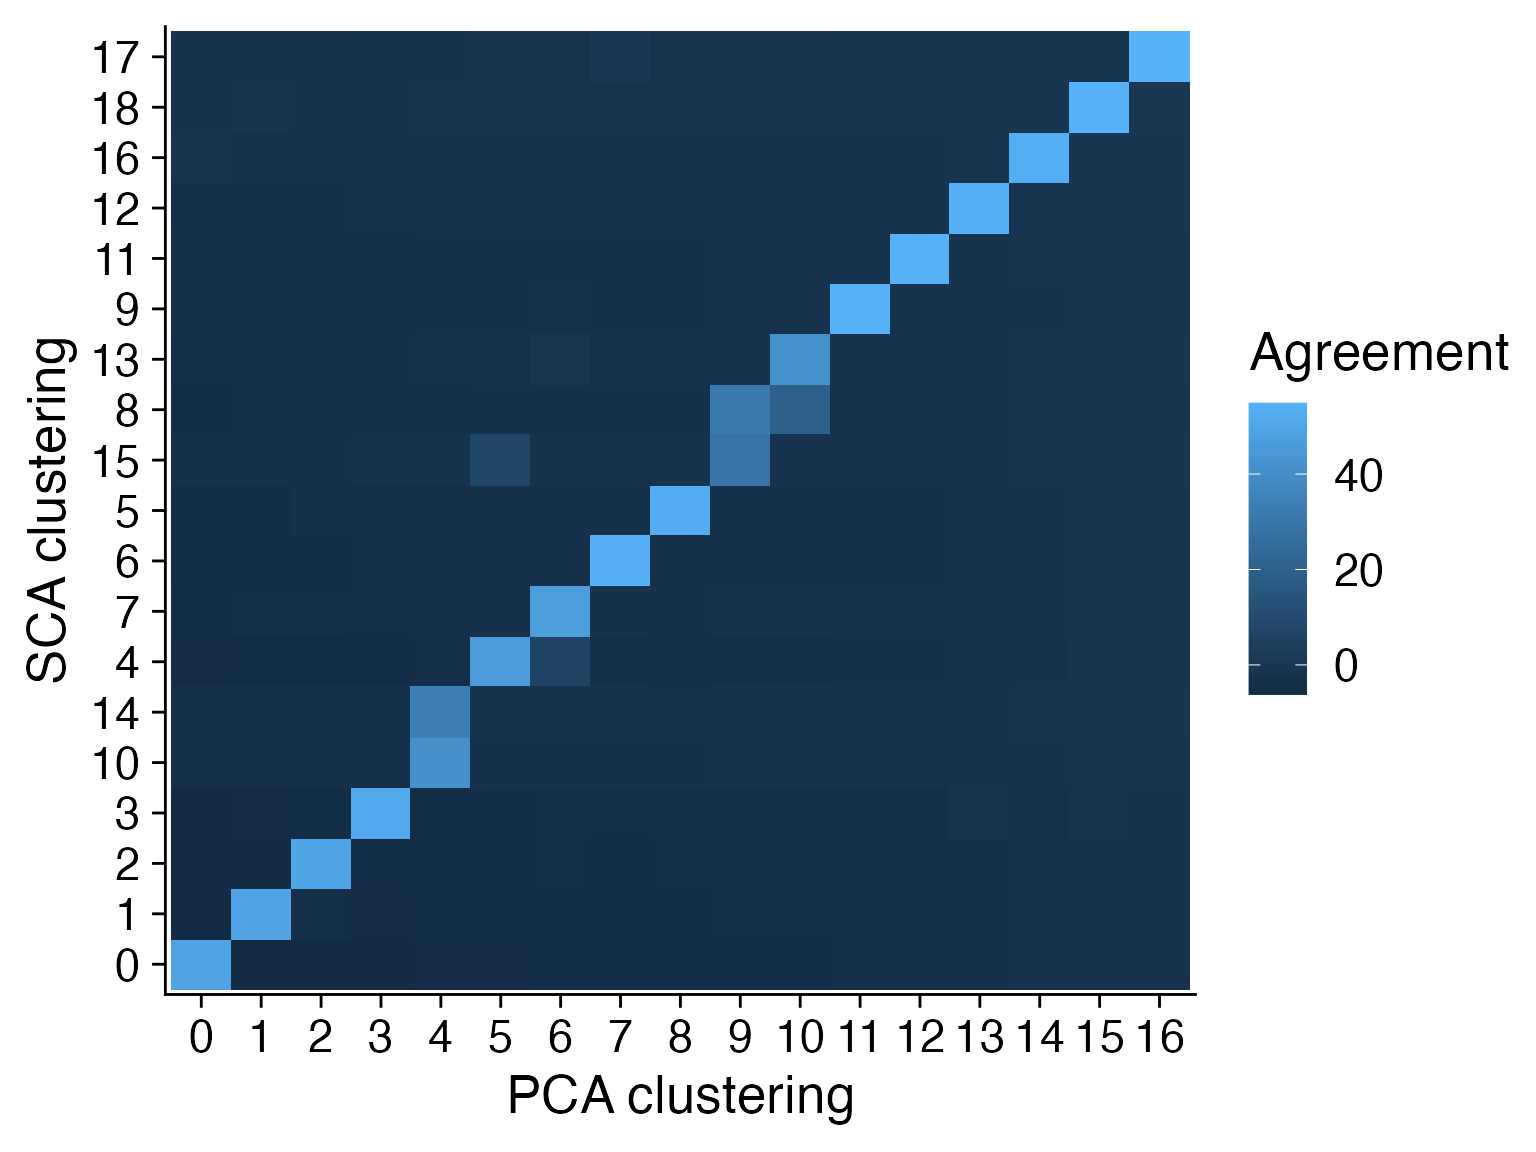
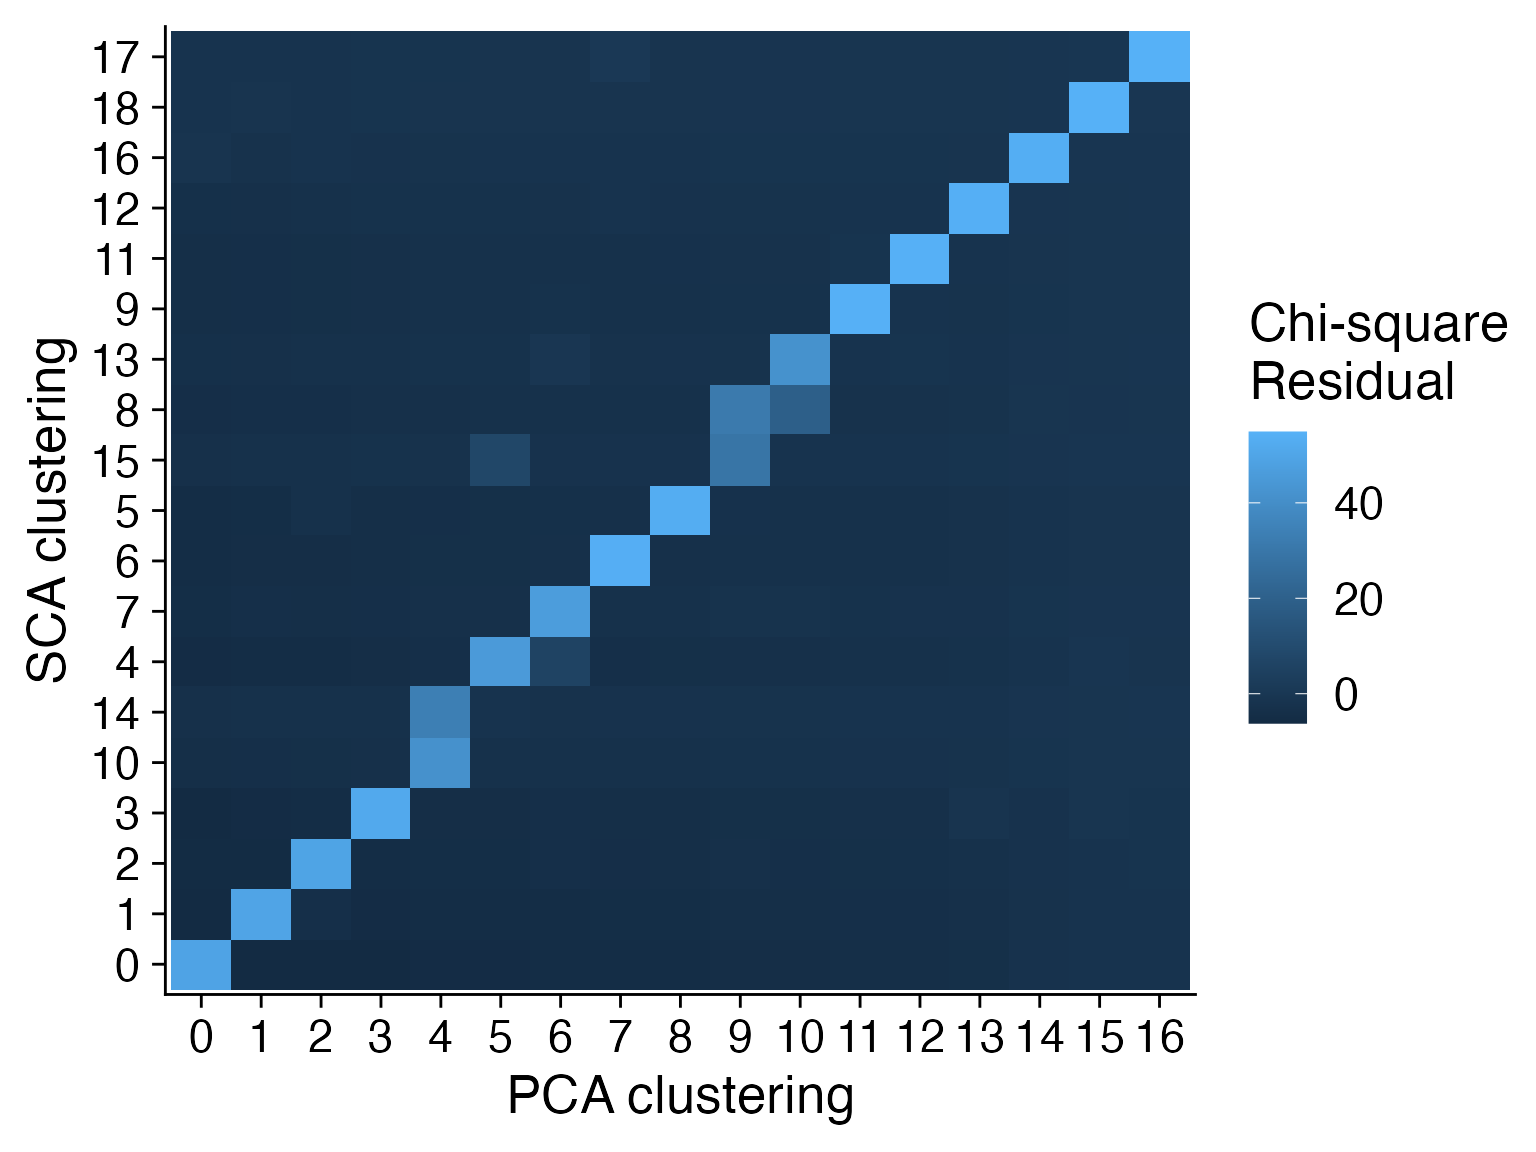
update vignettes

Changed region(s): [[0.8125, 0.25, 1.0, 0.375], [0.8125, 0.5625, 0.9062, 0.6562], [0.875, 0.4062, 0.9062, 0.5312]]

diff --git a/docs/articles/get_started.html b/docs/articles/get_started.html
@@ -107,6 +107,7 @@
     <div class="page-header toc-ignore">
       <h1 data-toc-skip>Get started with Visium Brain data</h1>
             
+            <h4 data-toc-skip class="date">Last Run: April 28, 2022</h4>
       
       <small class="dont-index">Source: <a href="https://github.com/stevexniu/rspca/blob/HEAD/vignettes/get_started.Rmd" class="external-link"><code>vignettes/get_started.Rmd</code></a></small>
       <div class="hidden name"><code>get_started.Rmd</code></div>
@@ -211,7 +212,7 @@ Typically, datapoints not located on the edges should have 6 1st-degree, 12 2nd-
 
 <span class="co"># Data for visualization</span>
 <span class="va">data.plot</span> <span class="op">&lt;-</span> <span class="fu">Seurat</span><span class="fu">:::</span><span class="fu">Melt</span><span class="op">(</span><span class="va">chi.resid</span><span class="op">)</span>
-<span class="fu"><a href="https://rdrr.io/r/base/colnames.html" class="external-link">colnames</a></span><span class="op">(</span><span class="va">data.plot</span><span class="op">)</span><span class="op">[</span><span class="fl">1</span><span class="op">:</span><span class="fl">3</span><span class="op">]</span> <span class="op">&lt;-</span> <span class="fu"><a href="https://rdrr.io/r/base/c.html" class="external-link">c</a></span><span class="op">(</span><span class="st">"SCA clustering"</span>, <span class="st">"PCA clustering"</span>, <span class="st">"Agreement"</span><span class="op">)</span>
+<span class="fu"><a href="https://rdrr.io/r/base/colnames.html" class="external-link">colnames</a></span><span class="op">(</span><span class="va">data.plot</span><span class="op">)</span><span class="op">[</span><span class="fl">1</span><span class="op">:</span><span class="fl">3</span><span class="op">]</span> <span class="op">&lt;-</span> <span class="fu"><a href="https://rdrr.io/r/base/c.html" class="external-link">c</a></span><span class="op">(</span><span class="st">"SCA clustering"</span>, <span class="st">"PCA clustering"</span>, <span class="st">"Chi-square Residual"</span><span class="op">)</span>
 
 <span class="co"># Reorder the columns</span>
 <span class="va">data.plot</span><span class="op">[</span>,<span class="fl">1</span><span class="op">]</span> <span class="op">&lt;-</span> <span class="fu"><a href="https://rdrr.io/r/base/factor.html" class="external-link">factor</a></span><span class="op">(</span><span class="va">data.plot</span><span class="op">[</span>,<span class="fl">1</span><span class="op">]</span>, 
@@ -220,15 +221,42 @@ Typically, datapoints not located on the edges should have 6 1st-degree, 12 2nd-
 <span class="va">data.plot</span><span class="op">[</span>,<span class="fl">2</span><span class="op">]</span> <span class="op">&lt;-</span> <span class="fu"><a href="https://rdrr.io/r/base/factor.html" class="external-link">factor</a></span><span class="op">(</span><span class="va">data.plot</span><span class="op">[</span>,<span class="fl">2</span><span class="op">]</span>, levels <span class="op">=</span> <span class="fu"><a href="https://rdrr.io/r/base/unique.html" class="external-link">unique</a></span><span class="op">(</span><span class="fu"><a href="https://rdrr.io/r/base/numeric.html" class="external-link">as.numeric</a></span><span class="op">(</span><span class="va">data.plot</span><span class="op">[</span>,<span class="fl">2</span><span class="op">]</span><span class="op">)</span><span class="op">)</span>, ordered <span class="op">=</span> <span class="cn">TRUE</span><span class="op">)</span>
 
 <span class="co"># Heatmap</span>
-<span class="fu"><a href="https://ggplot2.tidyverse.org/reference/ggplot.html" class="external-link">ggplot</a></span><span class="op">(</span>data <span class="op">=</span> <span class="va">data.plot</span>, <span class="fu"><a href="https://ggplot2.tidyverse.org/reference/aes.html" class="external-link">aes</a></span><span class="op">(</span>x<span class="op">=</span><span class="va">`PCA clustering`</span>, y<span class="op">=</span><span class="va">`SCA clustering`</span>, fill<span class="op">=</span><span class="va">Agreement</span><span class="op">)</span><span class="op">)</span> <span class="op">+</span> 
-  <span class="fu"><a href="https://ggplot2.tidyverse.org/reference/geom_tile.html" class="external-link">geom_tile</a></span><span class="op">(</span><span class="op">)</span> <span class="op">+</span> <span class="fu">cowplot</span><span class="fu">::</span><span class="fu"><a href="https://wilkelab.org/cowplot/reference/theme_cowplot.html" class="external-link">theme_cowplot</a></span><span class="op">(</span>font_size <span class="op">=</span> <span class="fl">20</span><span class="op">)</span> </code></pre></div>
+<span class="fu"><a href="https://ggplot2.tidyverse.org/reference/ggplot.html" class="external-link">ggplot</a></span><span class="op">(</span>data <span class="op">=</span> <span class="va">data.plot</span>, <span class="fu"><a href="https://ggplot2.tidyverse.org/reference/aes.html" class="external-link">aes</a></span><span class="op">(</span>x<span class="op">=</span><span class="va">`PCA clustering`</span>, y<span class="op">=</span><span class="va">`SCA clustering`</span>, fill<span class="op">=</span><span class="va">`Chi-square Residual`</span><span class="op">)</span><span class="op">)</span> <span class="op">+</span> 
+  <span class="fu"><a href="https://ggplot2.tidyverse.org/reference/geom_tile.html" class="external-link">geom_tile</a></span><span class="op">(</span><span class="op">)</span> <span class="op">+</span> <span class="fu">cowplot</span><span class="fu">::</span><span class="fu"><a href="https://wilkelab.org/cowplot/reference/theme_cowplot.html" class="external-link">theme_cowplot</a></span><span class="op">(</span>font_size <span class="op">=</span> <span class="fl">20</span><span class="op">)</span> <span class="op">+</span> <span class="fu"><a href="https://ggplot2.tidyverse.org/reference/labs.html" class="external-link">labs</a></span><span class="op">(</span>fill<span class="op">=</span><span class="st">"Chi-square\nResidual"</span><span class="op">)</span></code></pre></div>
 <p><img src="get_started_files/figure-html/compare-1.png" width="768"></p>
 </div>
 <div class="section level3">
 <h3 id="conclusion">Conclusion<a class="anchor" aria-label="anchor" href="#conclusion"></a>
 </h3>
 <p>For this data, the clustering results based on SCA and PCA in general agree with each other. However, as we noted PCA cluster 4, 9 and 10 were split by the SCA each into two distinct groups.</p>
-<p>Here, we will go through them in detail at whether SCA made a false discovery.</p>
+<p>Here, we will go through one of them in detail to check whether SCA made a false discovery or PCA underestimated certain distinct clusters.</p>
+<p><details><summary><strong>PCA Cluster 4 vs SCA Cluster 10 and 14</strong></summary></details></p>
+<div class="sourceCode"><pre class="downlit sourceCode r">
+<code class="sourceCode R"><span class="va">cluster4</span> <span class="op">&lt;-</span> <span class="fu"><a href="https://rdrr.io/r/base/subset.html" class="external-link">subset</a></span><span class="op">(</span><span class="va">posterior1</span>, <span class="va">pca.snn_res.1</span> <span class="op">==</span> <span class="fl">4</span> <span class="op">&amp;</span> <span class="va">sca.snn_res.1</span> <span class="op"><a href="https://rdrr.io/r/base/match.html" class="external-link">%in%</a></span> <span class="fu"><a href="https://rdrr.io/r/base/c.html" class="external-link">c</a></span><span class="op">(</span><span class="fl">10</span>, <span class="fl">14</span><span class="op">)</span><span class="op">)</span>
+<span class="va">cluster4</span><span class="op">$</span><span class="va">sca.snn_res.1</span> <span class="op">&lt;-</span> <span class="fu"><a href="https://rdrr.io/r/base/factor.html" class="external-link">factor</a></span><span class="op">(</span><span class="va">cluster4</span><span class="op">$</span><span class="va">sca.snn_res.1</span><span class="op">)</span>
+<span class="va">cluster4</span><span class="op">$</span><span class="va">pca.snn_res.1</span> <span class="op">&lt;-</span> <span class="fu"><a href="https://rdrr.io/r/base/factor.html" class="external-link">factor</a></span><span class="op">(</span><span class="va">cluster4</span><span class="op">$</span><span class="va">pca.snn_res.1</span><span class="op">)</span>
+<span class="va">p1</span> <span class="op">&lt;-</span> <span class="fu"><a href="https://satijalab.org/seurat/reference/SpatialPlot.html" class="external-link">SpatialDimPlot</a></span><span class="op">(</span><span class="va">cluster4</span>, group.by <span class="op">=</span> <span class="st">"pca.snn_res.1"</span>, pt.size.factor <span class="op">=</span> <span class="fl">3</span>, 
+                     label <span class="op">=</span> <span class="cn">TRUE</span>, label.size <span class="op">=</span> <span class="fl">5</span><span class="op">)</span> <span class="op">+</span> 
+  <span class="fu"><a href="https://ggplot2.tidyverse.org/reference/labs.html" class="external-link">ggtitle</a></span><span class="op">(</span><span class="st">"PCA Clustering"</span><span class="op">)</span> <span class="op">+</span> <span class="fu"><a href="https://satijalab.org/seurat/reference/SeuratTheme.html" class="external-link">NoLegend</a></span><span class="op">(</span><span class="op">)</span> <span class="op">+</span> 
+  <span class="fu"><a href="https://ggplot2.tidyverse.org/reference/theme.html" class="external-link">theme</a></span><span class="op">(</span>plot.title <span class="op">=</span> <span class="fu"><a href="https://ggplot2.tidyverse.org/reference/element.html" class="external-link">element_text</a></span><span class="op">(</span>size <span class="op">=</span> <span class="fl">15</span>, face <span class="op">=</span> <span class="fl">2</span>, hjust <span class="op">=</span> <span class="fl">0.5</span><span class="op">)</span><span class="op">)</span>
+<span class="va">p2</span> <span class="op">&lt;-</span> <span class="fu"><a href="https://satijalab.org/seurat/reference/SpatialPlot.html" class="external-link">SpatialDimPlot</a></span><span class="op">(</span><span class="va">cluster4</span>, group.by <span class="op">=</span> <span class="st">"sca.snn_res.1"</span>, pt.size.factor <span class="op">=</span> <span class="fl">3</span>, 
+                     label <span class="op">=</span> <span class="cn">TRUE</span>, label.size <span class="op">=</span> <span class="fl">5</span><span class="op">)</span> <span class="op">+</span> 
+  <span class="fu"><a href="https://ggplot2.tidyverse.org/reference/labs.html" class="external-link">ggtitle</a></span><span class="op">(</span><span class="st">"SCA Clustering"</span><span class="op">)</span> <span class="op">+</span> <span class="fu"><a href="https://satijalab.org/seurat/reference/SeuratTheme.html" class="external-link">NoLegend</a></span><span class="op">(</span><span class="op">)</span> <span class="op">+</span> 
+  <span class="fu"><a href="https://ggplot2.tidyverse.org/reference/theme.html" class="external-link">theme</a></span><span class="op">(</span>plot.title <span class="op">=</span> <span class="fu"><a href="https://ggplot2.tidyverse.org/reference/element.html" class="external-link">element_text</a></span><span class="op">(</span>size <span class="op">=</span> <span class="fl">15</span>, face <span class="op">=</span> <span class="fl">2</span>, hjust <span class="op">=</span> <span class="fl">0.5</span><span class="op">)</span><span class="op">)</span>
+<span class="va">p1</span> <span class="op">+</span> <span class="va">p2</span></code></pre></div>
+<p><img src="get_started_files/figure-html/unnamed-chunk-2-1.png" width="768"></p>
+<p>We can examine the differentially expressed genes between cluster 10 and 14 from SCA clustering. We see that these are heterogeneous populations marked by different gene expressions.</p>
+<div class="sourceCode"><pre class="downlit sourceCode r">
+<code class="sourceCode R"><span class="va">de.genes</span> <span class="op">&lt;-</span> <span class="fu"><a href="https://satijalab.org/seurat/reference/FindMarkers.html" class="external-link">FindMarkers</a></span><span class="op">(</span><span class="va">cluster4</span>, <span class="fl">14</span>, <span class="fl">10</span>, group.by <span class="op">=</span> <span class="st">"sca.snn_res.1"</span>, verbose <span class="op">=</span> <span class="cn">FALSE</span><span class="op">)</span>
+<span class="va">de.genes</span> <span class="op">&lt;-</span> <span class="va">de.genes</span><span class="op">[</span><span class="va">de.genes</span><span class="op">$</span><span class="va">p_val_adj</span> <span class="op">&lt;</span> <span class="fl">0.05</span>, <span class="op">]</span>
+<span class="va">de.genes</span> <span class="op">&lt;-</span> <span class="va">de.genes</span><span class="op">[</span><span class="fu"><a href="https://rdrr.io/r/base/order.html" class="external-link">order</a></span><span class="op">(</span><span class="va">de.genes</span><span class="op">$</span><span class="va">avg_log2FC</span><span class="op">)</span>,<span class="op">]</span>
+<span class="va">cluster4</span> <span class="op">&lt;-</span> <span class="fu"><a href="https://satijalab.org/seurat/reference/ScaleData.html" class="external-link">ScaleData</a></span><span class="op">(</span><span class="va">cluster4</span>, features <span class="op">=</span> <span class="fu"><a href="https://rdrr.io/r/base/colnames.html" class="external-link">rownames</a></span><span class="op">(</span><span class="va">de.genes</span><span class="op">)</span><span class="op">)</span>
+<span class="va">p1</span> <span class="op">&lt;-</span> <span class="fu"><a href="https://satijalab.org/seurat/reference/DoHeatmap.html" class="external-link">DoHeatmap</a></span><span class="op">(</span><span class="va">cluster4</span>, <span class="fu"><a href="https://rdrr.io/r/base/colnames.html" class="external-link">rownames</a></span><span class="op">(</span><span class="va">de.genes</span><span class="op">)</span>, group.by <span class="op">=</span> <span class="st">"sca.snn_res.1"</span><span class="op">)</span>
+<span class="va">p2</span> <span class="op">&lt;-</span> <span class="fu"><a href="https://satijalab.org/seurat/reference/SpatialPlot.html" class="external-link">SpatialFeaturePlot</a></span><span class="op">(</span><span class="va">cluster4</span>, <span class="fu"><a href="https://rdrr.io/r/base/c.html" class="external-link">c</a></span><span class="op">(</span><span class="fu"><a href="https://rdrr.io/r/utils/head.html" class="external-link">head</a></span><span class="op">(</span><span class="fu"><a href="https://rdrr.io/r/base/colnames.html" class="external-link">rownames</a></span><span class="op">(</span><span class="va">de.genes</span><span class="op">)</span>,<span class="fl">2</span><span class="op">)</span>, <span class="fu"><a href="https://rdrr.io/r/utils/head.html" class="external-link">tail</a></span><span class="op">(</span><span class="fu"><a href="https://rdrr.io/r/base/colnames.html" class="external-link">rownames</a></span><span class="op">(</span><span class="va">de.genes</span><span class="op">)</span>,<span class="fl">2</span><span class="op">)</span><span class="op">)</span>,
+                         pt.size.factor <span class="op">=</span> <span class="fl">3</span><span class="op">)</span>
+<span class="va">p1</span> <span class="op">+</span> <span class="va">p2</span></code></pre></div>
+<p><img src="get_started_files/figure-html/unnamed-chunk-3-1.png" width="1152"><br>
+### Session Information</p>
 <div class="sourceCode"><pre class="downlit sourceCode r">
 <code class="sourceCode R"><span class="fu"><a href="https://rdrr.io/r/base/print.html" class="external-link">print</a></span><span class="op">(</span><span class="fu"><a href="https://rdrr.io/r/utils/sessionInfo.html" class="external-link">sessionInfo</a></span><span class="op">(</span><span class="op">)</span><span class="op">)</span>
 <span class="co">## R version 4.0.3 (2020-10-10)</span>
@@ -254,22 +282,22 @@ Typically, datapoints not located on the edges should have 6 1st-degree, 12 2nd-
 <span class="co">##  [13] ggrepel_0.9.0         RSpectra_0.16-0       codetools_0.2-18      splines_4.0.3         cachem_1.0.1          knitr_1.38           </span>
 <span class="co">##  [19] polyclip_1.10-0       jsonlite_1.7.2        ica_1.0-2             cluster_2.1.0         png_0.1-7             uwot_0.1.10          </span>
 <span class="co">##  [25] shiny_1.5.0           sctransform_0.3.2     spatstat.sparse_2.0-0 compiler_4.0.3        httr_1.4.2            Matrix_1.3-2         </span>
-<span class="co">##  [31] fastmap_1.1.0         lazyeval_0.2.2        cli_3.2.0             later_1.1.0.1         htmltools_0.5.2       tools_4.0.3          </span>
-<span class="co">##  [37] igraph_1.2.6          gtable_0.3.0          glue_1.6.2            RANN_2.6.1            reshape2_1.4.4        dplyr_1.0.2          </span>
-<span class="co">##  [43] Rcpp_1.0.7            scattermore_0.7       jquerylib_0.1.3       pkgdown_2.0.2         vctrs_0.4.1           nlme_3.1-151         </span>
-<span class="co">##  [49] lmtest_0.9-38         xfun_0.30             stringr_1.4.0         globals_0.14.0        mime_0.9              miniUI_0.1.1.1       </span>
-<span class="co">##  [55] lifecycle_1.0.1       irlba_2.3.3           goftest_1.2-2         future_1.21.0         MASS_7.3-53           zoo_1.8-8            </span>
-<span class="co">##  [61] scales_1.1.1          spatstat.core_1.65-5  ragg_0.4.0            promises_1.1.1        spatstat.utils_2.1-0  parallel_4.0.3       </span>
-<span class="co">##  [67] RColorBrewer_1.1-2    yaml_2.2.1            memoise_2.0.1         reticulate_1.18       pbapply_1.4-3         gridExtra_2.3        </span>
-<span class="co">##  [73] sass_0.4.0            rpart_4.1-15          stringi_1.5.3         highr_0.8             desc_1.4.1            rlang_1.0.2          </span>
-<span class="co">##  [79] pkgconfig_2.0.3       systemfonts_0.3.2     matrixStats_0.57.0    evaluate_0.15         lattice_0.20-41       ROCR_1.0-11          </span>
-<span class="co">##  [85] purrr_0.3.4           tensor_1.5            labeling_0.4.2        patchwork_1.1.1       htmlwidgets_1.5.3     cowplot_1.1.1        </span>
-<span class="co">##  [91] tidyselect_1.1.0      parallelly_1.23.0     RcppAnnoy_0.0.18      plyr_1.8.6            magrittr_2.0.1        R6_2.5.0             </span>
-<span class="co">##  [97] generics_0.1.0        DBI_1.1.0             withr_2.4.3           mgcv_1.8-33           pillar_1.4.7          fitdistrplus_1.1-3   </span>
-<span class="co">## [103] survival_3.2-7        abind_1.4-5           tibble_3.0.4          future.apply_1.7.0    crayon_1.3.4          KernSmooth_2.23-18   </span>
-<span class="co">## [109] spatstat.geom_1.65-5  plotly_4.9.2.2        rmarkdown_2.13        grid_4.0.3            data.table_1.13.6     digest_0.6.27        </span>
-<span class="co">## [115] xtable_1.8-4          tidyr_1.1.2           httpuv_1.5.4          textshaping_0.2.1     munsell_0.5.0         viridisLite_0.3.0    </span>
-<span class="co">## [121] bslib_0.3.1</span></code></pre></div>
+<span class="co">##  [31] fastmap_1.1.0         lazyeval_0.2.2        limma_3.46.0          cli_3.2.0             later_1.1.0.1         htmltools_0.5.2      </span>
+<span class="co">##  [37] tools_4.0.3           igraph_1.2.6          gtable_0.3.0          glue_1.6.2            RANN_2.6.1            reshape2_1.4.4       </span>
+<span class="co">##  [43] dplyr_1.0.2           Rcpp_1.0.7            scattermore_0.7       jquerylib_0.1.3       pkgdown_2.0.2         vctrs_0.4.1          </span>
+<span class="co">##  [49] nlme_3.1-151          lmtest_0.9-38         xfun_0.30             stringr_1.4.0         globals_0.14.0        mime_0.9             </span>
+<span class="co">##  [55] miniUI_0.1.1.1        lifecycle_1.0.1       irlba_2.3.3           goftest_1.2-2         future_1.21.0         MASS_7.3-53          </span>
+<span class="co">##  [61] zoo_1.8-8             scales_1.1.1          spatstat.core_1.65-5  ragg_0.4.0            promises_1.1.1        spatstat.utils_2.1-0 </span>
+<span class="co">##  [67] parallel_4.0.3        RColorBrewer_1.1-2    yaml_2.2.1            memoise_2.0.1         reticulate_1.18       pbapply_1.4-3        </span>
+<span class="co">##  [73] gridExtra_2.3         sass_0.4.0            rpart_4.1-15          stringi_1.5.3         highr_0.8             desc_1.4.1           </span>
+<span class="co">##  [79] rlang_1.0.2           pkgconfig_2.0.3       systemfonts_0.3.2     matrixStats_0.57.0    evaluate_0.15         lattice_0.20-41      </span>
+<span class="co">##  [85] ROCR_1.0-11           purrr_0.3.4           tensor_1.5            labeling_0.4.2        patchwork_1.1.1       htmlwidgets_1.5.3    </span>
+<span class="co">##  [91] cowplot_1.1.1         tidyselect_1.1.0      parallelly_1.23.0     RcppAnnoy_0.0.18      plyr_1.8.6            magrittr_2.0.1       </span>
+<span class="co">##  [97] R6_2.5.0              generics_0.1.0        DBI_1.1.0             withr_2.4.3           mgcv_1.8-33           pillar_1.4.7         </span>
+<span class="co">## [103] fitdistrplus_1.1-3    survival_3.2-7        abind_1.4-5           tibble_3.0.4          future.apply_1.7.0    crayon_1.3.4         </span>
+<span class="co">## [109] KernSmooth_2.23-18    spatstat.geom_1.65-5  plotly_4.9.2.2        rmarkdown_2.13        grid_4.0.3            data.table_1.13.6    </span>
+<span class="co">## [115] digest_0.6.27         xtable_1.8-4          tidyr_1.1.2           httpuv_1.5.4          textshaping_0.2.1     munsell_0.5.0        </span>
+<span class="co">## [121] viridisLite_0.3.0     bslib_0.3.1</span></code></pre></div>
 </div>
   </div>
 
